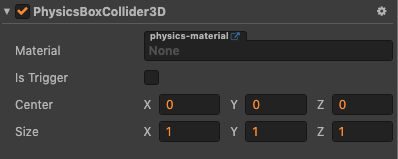
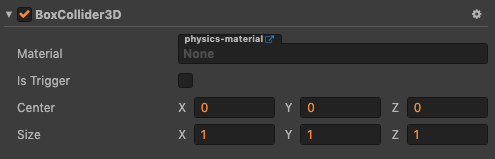
combine collision system and physics system

diff --git a/zh/physics-3d/physics-event.md b/zh/physics-3d/physics-event.md
@@ -11,7 +11,7 @@
 - 触发器不会与其它触发器或者碰撞器做更精细的检测。
 - 碰撞器与碰撞器会做更精细的检测，并会提供因碰撞产生的一些额外的数据，如碰撞点、法线等。
 
-**注：设置一个 PhysicsCollider3D 组件为触发器，可以通过设置 PhysicsCollider3D 组件的 isTrigger 属性**。
+**注：设置一个 Collider3D 组件为触发器，可以通过设置 Collider3D 组件的 isTrigger 属性**。
 
 ## 触发事件和碰撞事件
 
@@ -21,14 +21,14 @@
 
 通过注册事件监听触发事件：
 
-1. 通过 `this.getComponent(cc.PhysicsCollider3D)` 获取到 `PhysicsCollider3D`
-2. 通过 `PhysicsCollider3D` 的 `on` 或者 `once` 方法注册事件回调
+1. 通过 `this.getComponent(cc.Collider3D)` 获取到 `Collider3D`
+2. 通过 `Collider3D` 的 `on` 或者 `once` 方法注册事件回调
 
 代码示例：
 
 ```
 start () {
-    let collider = this.getComponent(cc.PhysicsCollider3D);
+    let collider = this.getComponent(cc.Collider3D);
     collider.on('onTriggerStay', this.onTrigger, this);
 }
 
@@ -43,14 +43,14 @@ onTrigger (event) {
 
 监听碰撞事件，可以通过注册事件的方式来添加碰撞后的回调，以下步骤可以完成碰撞事件的监听：
 
-1. 通过 `this.getComponent(cc.PhysicsCollider3D)` 获取到 `PhysicsCollider3D`
-2. 通过 `PhysicsCollider3D` 的 `on` 或者 `once` 方法注册相应事件的回调
+1. 通过 `this.getComponent(cc.Collider3D)` 获取到 `Collider3D`
+2. 通过 `Collider3D` 的 `on` 或者 `once` 方法注册相应事件的回调
 
 代码示例：
 
 ```
 start () {
-    let collider = this.getComponent(cc.PhysicsCollider3D);
+    let collider = this.getComponent(cc.Collider3D);
     collider.on('onCollisionStay', this.onCollision, this);
 }
 
@@ -59,7 +59,7 @@ onCollision (event) {
 }
 ```
 
-**PhysicsCollider3D 是物理系统中所有碰撞组件的基类**。
+**Collider3D 是物理系统中所有碰撞组件的基类**。
 
 两者的区别
 

diff --git a/zh/physics-3d/index.md b/zh/physics-3d/index.md
@@ -1,17 +1,13 @@
-# 3D 物理与碰撞系统
+# 3D 物理系统
 
-- [物理系统管理器](physics-manager.md)
+- [物理选项](physics-select.md)
+- [物理系统](physics-manager.md)
 - [刚体组件](physics-rigidbody.md)
 - [恒力组件](physics-constant-force.md)
-- [物理碰撞组件](physics-collider.md)
+- [碰撞组件](physics-collider.md)
 - [物理材质](physics-material.md)
 - [物理事件](physics-event.md)
 
-3D 物理与碰撞系统的分组管理与 2D 完全一至，请参考 [分组管理](../physics/collision/collision-group.md) 。
+3D 物理系统的分组管理与 2D 完全一至，请参考 [分组管理](../physics/collision/collision-group.md) 。
 
-对于只需检测两物体碰撞与否的情况，可直接使用碰撞系统，可以避免物理系统带来的开销，而物理系统提供了更完善的交互接口和刚体等组件，可根据需求选择合适的方案。
-
-碰撞系统与物理系统使用方法类似，这里简要介绍不同点。
-- [碰撞系统](collision-system.md)
-
-更多使用方法请到 [物理与碰撞系统示例](https://github.com/cocos-creator/example-cases/tree/master/assets/cases/3d_physics) 查阅
+更多使用方法请到 [物理系统示例](https://github.com/cocos-creator/example-cases/tree/master/assets/cases/3d_physics) 查阅

diff --git a/zh/physics-3d/physics-select.md b/zh/physics-3d/physics-select.md
@@ -1,0 +1,31 @@
+# 选择合适的物理引擎
+
+![物理引擎选项](image/physics-module.png)
+
+前往编辑器 "项目->项目设置->模块设置"，选择合适的物理引擎 (默认为 Cannon.js )。
+
+**注：预览过程中物理引擎始终为 Cannon.js ，只有在构建工程时，该选项才起作用**。
+
+## 碰撞检测 : Builtin
+
+Builtin 是仅有碰撞检测系统的物理模块，相对于其它的物理引擎，它没有物理模拟功能，有包体更小和较小的计算量的优势。
+
+若使用 Builtin 进行开发，请注意以下几点：
+
+- Builtin 只有 trigger 类型的事件。
+
+- [碰撞组件](./physics-collider) 中的 material 属性无效。
+
+- [碰撞组件](./physics-collider) 中的 isTrigger 无论值真假，碰撞器都为触发器。
+
+- [碰撞组件](./physics-collider) 中的 attachedRigidbody 为 null。
+
+- [刚体组件](./physics-rigidbody) 无效。
+
+- [恒力组件](./physics-constant-force) 无效。
+
+## 物理引擎 : Cannon.js
+
+[Cannon.js](https://github.com/cocos-creator/cannon.js) 是一个开源的物理引擎，使用 javascript 开发并实现了比较全面的物理模拟功能。
+
+**注：若取消物理模块的勾选，将无法使用物理相关的组件和接口，否则会运行时报错**。

diff --git a/zh/physics-3d/physics-manager.md b/zh/physics-3d/physics-manager.md
@@ -1,4 +1,4 @@
-# 3D 物理系统管理器
+# 3D 物理系统
 
 物理系统（Physics3DManager）模拟真实物理行为，进行碰撞检测及计算物体的受力情况，然后将模拟结果反馈给渲染层。
 
@@ -6,7 +6,7 @@
 
 ### 开启物理系统
 
-物理系统默认是关闭的，如需使用物理系统，必须开启物理系统，否则运行时不会产生任何效果。
+物理系统默认是关闭的，如需使用，须开启，否则运行时不会产生任何效果。
 
 ```javascript
 cc.director.getPhysics3DManager().enabled = true;
@@ -21,6 +21,8 @@ cc.director.getPhysics3DManager().enabled = true;
 **maxSubStep** |  物理每帧模拟的最大子步数，默认为 2
 **deltaTime** |  物理每步模拟消耗的时间，注意不是每帧，默认为 1 / 60
 **gravity** |  物理世界的重力值，默认为 (0, -10, 0)
+
+**注：Builtin 不支持以上物理模拟相关的属性**。
 
 #### 射线检测
 

diff --git a/zh/SUMMARY.md b/zh/SUMMARY.md
@@ -184,14 +184,14 @@
     - [光照](3d/lighting.md)
     - [光源组件参考](3d/light-component.md)
     - [基础 3D 物体](3d/primitive.md)
-- [3D 物理与碰撞系统](physics-3d/index.md)
-    - [物理系统管理器](physics-3d/physics-manager.md)
+- [3D 物理系统](physics-3d/index.md)
+    - [物理选项](physics-3d/physics-select.md)
+    - [物理系统](physics-3d/physics-manager.md)
     - [刚体组件](physics-3d/physics-rigidbody.md)
     - [恒力组件](physics-3d/physics-constant-force.md)
     - [碰撞组件](physics-3d/physics-collider.md)
     - [物理材质](physics-3d/physics-material.md)
-    - [碰撞事件](physics-3d/physics-event.md)
-    - [碰撞系统](physics-3d/collision-system.md)
+    - [物理事件](physics-3d/physics-event.md)
 
 ## 进阶使用
 

diff --git a/zh/physics-3d/physics-collider.md b/zh/physics-3d/physics-collider.md
@@ -2,7 +2,7 @@
 
 碰撞组件用于指明游戏对象的形状，不同形状具有不同属性及物理行为，可根据需求选择不同形状的碰撞组件。
 
-### 盒碰撞组件（PhysicsBoxCollider3D）
+### 盒碰撞组件（BoxCollider3D）
 
 添加盒碰撞组件
 
@@ -19,7 +19,7 @@
 **Center**  |  形状的中心点（与所在 Node 中心点的相对位置）
 **Size**  |  盒的大小，即长、宽、高
 
-### 球碰撞组件（PhysicsSphereCollider3D）
+### 球碰撞组件（SphereCollider3D）
 
 添加球碰撞组件
 

diff --git a/zh/physics-3d/physics-rigidbody.md b/zh/physics-3d/physics-rigidbody.md
@@ -2,6 +2,8 @@
 
 刚体使节点在物理控制下运动，以真实世界的方式接受作用力。
 
+**注： Builtin 此组件无效**。
+
 ## 添加刚体组件
 
 ![刚体组件](image/rigidbody-component.png)
